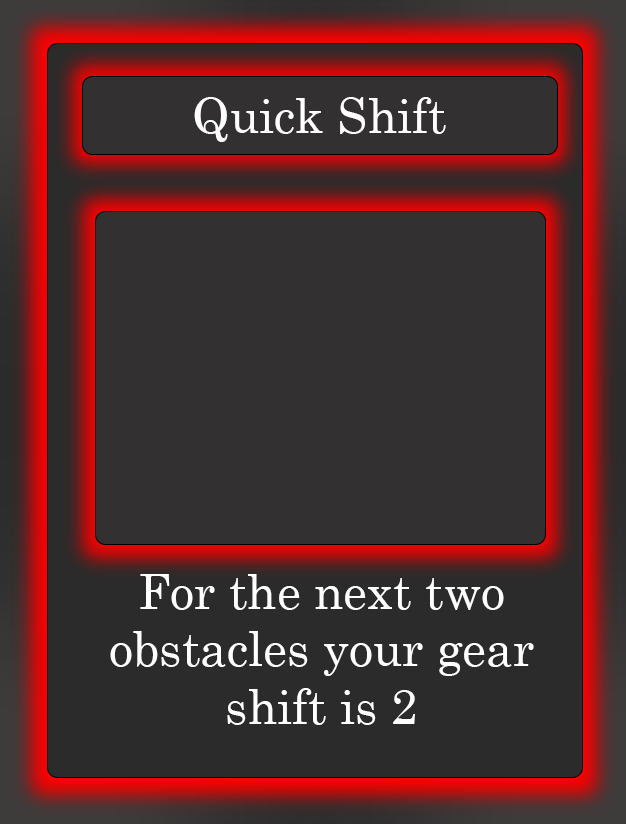
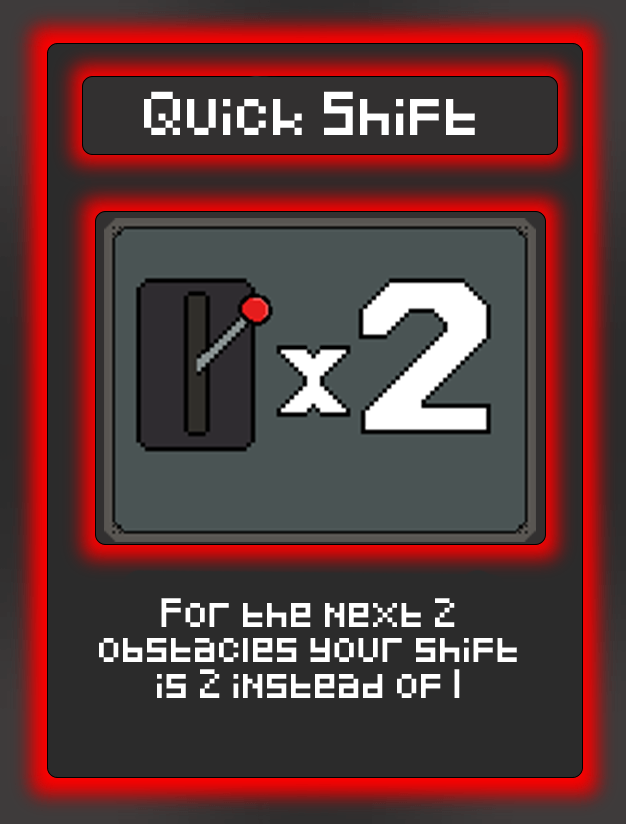
New cards added

Changed region(s): [[0.1518, 0.2427, 0.8802, 0.6675], [0.1518, 0.6978, 0.8498, 0.8799], [0.2125, 0.091, 0.7588, 0.182]]

diff --git a/projects/CaRPG/src/SceningTest.cpp b/projects/CaRPG/src/SceningTest.cpp
@@ -658,12 +658,12 @@ void SceningTest::Start()
 
 
 
-	cardTextures.push_back(syre::Texture("images/NO2N.png"));
-	cardTextures.push_back(syre::Texture("images/DriftN.png"));
-	cardTextures.push_back(syre::Texture("images/SlipstreamN.png"));
-	cardTextures.push_back(syre::Texture("images/EBrakeN.png"));
+	cardTextures.push_back(syre::Texture("images/NO2.png"));
+	cardTextures.push_back(syre::Texture("images/Drift.png"));
+	cardTextures.push_back(syre::Texture("images/Slipstream.png"));
+	cardTextures.push_back(syre::Texture("images/EBrake.png"));
 	cardTextures.push_back(syre::Texture("images/QuickShiftN.png"));
-	cardTextures.push_back(syre::Texture("images/SabotageN.png"));
+	cardTextures.push_back(syre::Texture("images/Sabotage.png"));
 
 	hazardTextures.push_back(syre::Texture("images/Apex.png"));
 	hazardTextures.push_back(syre::Texture("images/Hairpin.png"));
